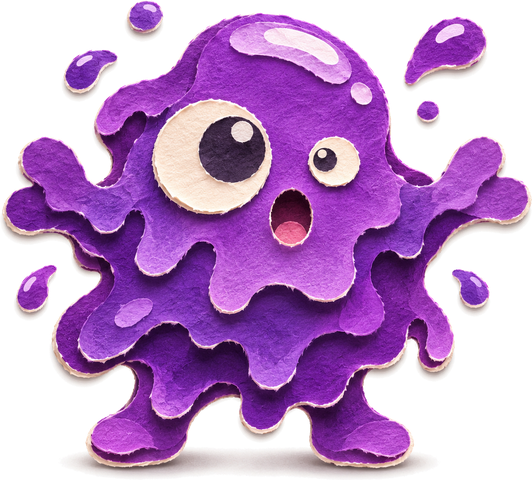
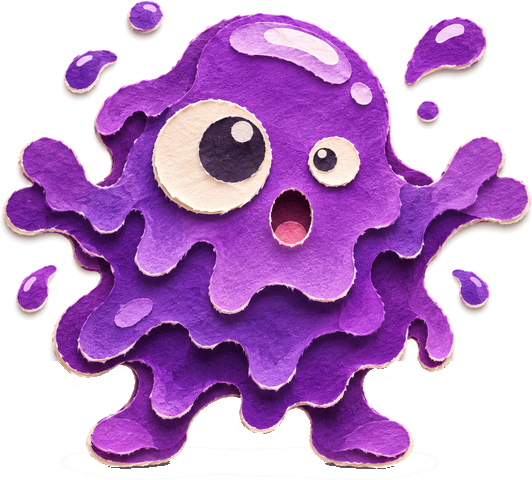
Storm halfway cap with eyes in view, soft runner shadow, clean pose floors, spinning dizzy eyes, new site and App Store art
- Storm wall meets halfway: climbs over the runner's legs, eyes always on screen
- Runner shadow is a soft, lumpy pool instead of a hard oval
- Removed baked-in floor shadows under the slide pose and other character art
- Bramble's spiral eyes spin when the storm wins
- Website: wide hero, Daily Storm art, holiday races section, challenge and 404 art, new social card
- App Store: header, search and universal images at Apple's sizes; screenshot frames use the painted backgrounds

Claude-Session: https://claude.ai/code/session_014vwR7NM2aDFqWmg6Pa4hGJ

diff --git a/docs/index.html b/docs/index.html
@@ -31,6 +31,7 @@
 
   <section class="hero">
     <div class="wrap">
+      <img class="hero-banner" src="assets/hero-wide.webp" alt="Bramble, a leafy green monster, runs with a golden needle as gold stitches close a tear between a gray storm and a bright meadow">
       <div>
         <h1>Outrun the storm. Stitch the world.</h1>
         <p class="lede">The Shredder is tearing the Paper World to confetti and draining every color. Grab a golden needle, run with a crew of cut-paper monsters, and sew each page back to life before the storm catches you.</p>
@@ -41,7 +42,7 @@
           <a class="btn gold" href="#daily">See the Daily Storm</a>
         </div>
       </div>
-      <div class="phone"><img src="assets/title-card.webp" alt="Storm Stitch title screen: Bramble, a leafy green monster, holds a golden needle in front of a gray storm with glowing eyes"></div>
+      <div class="phone"><img src="assets/title-card.webp" alt="Storm Stitch title screen: Bramble holds a golden needle in front of a gray storm with glowing eyes"></div>
     </div>
   </section>
 
@@ -125,11 +126,26 @@
         <p>Every day brings the same storm for every player, with a twist: Fog Day, Mirror Day, Spool Rain, Night Run and more. Your first run is your score. Share it, then dare a friend to beat it with a challenge link.</p>
       </div>
       <div class="paper">
+        <img class="section-art" src="assets/daily-storm.webp" alt="A torn calendar page with a grumpy storm cloud on top and monsters lined up at a start line" loading="lazy">
         <div class="share-sample">Storm Stitch Daily #4 🌫 Fog Day
 ⭐⭐▫  🧵 112  📏 1,486 m
 Score: 2,606
 Can you outrun the storm?</div>
-        <p style="margin:14px 0 0">Holiday events bring limited-time races: outrun Gobbler the turkey in late November and Comet the reindeer in December.</p>
+      </div>
+    </div>
+  </section>
+
+  <section class="block" id="holidays">
+    <div class="wrap">
+      <div class="center">
+        <div class="kicker">Holiday races</div>
+        <h2>Race a turkey. Then a reindeer.</h2>
+        <p>Limited-time events with their own roads, hazards and a rival to beat. Win and they join your crew for good.</p>
+      </div>
+      <img class="wide-art" src="assets/holidays.webp" alt="Bramble races a turkey down an autumn road and a reindeer down a snowy one, split by a golden seam" loading="lazy">
+      <div class="features two-up">
+        <div class="paper feature"><h3>Turkey Trot</h3><p>November 20 to December 1. Outrun Gobbler past paper pumpkins and hay bales.</p></div>
+        <div class="paper feature"><h3>Reindeer Race</h3><p>December 2 to January 4. Beat Comet through the snow, dodging presents and snowmen.</p></div>
       </div>
     </div>
   </section>

diff --git a/StormStitch/RunScene.swift b/StormStitch/RunScene.swift
@@ -2101,7 +2101,12 @@ final class RunScene: SKScene {
             let feet = screenPoint(ofWorld: playerShadow.position).y
             let body = playerNode.calculateAccumulatedFrame().height
             let cap = feet + body * 0.3
-            visible = min(visible, cap + 8 - stormTopAbove)
+            let capped = cap + 8 - stormTopAbove
+            if visible > capped {
+                // Meet halfway: the wall still climbs over the runner's legs, and its eyes never sink off screen.
+                let eyesInView = h * (0.07 + closeness * 0.06)
+                visible = max(eyesInView, (visible + capped) / 2)
+            }
         }
         stormBack.position.y = visible + 18
         stormFront.position.y = visible + CGFloat(sin(clock * 3.1) * 5)
@@ -2265,6 +2270,32 @@ final class RunScene: SKScene {
         brambleSprite.xScale = 1
         brambleSprite.texture = entry.texture
         brambleSprite.size = CGSize(width: height * entry.size.width / entry.size.height, height: height)
+        brambleSprite.childNode(withName: "dizzyEyes")?.removeFromParent()
+        if name == "bramble-lose" { addDizzyEyes(imageSize: entry.size) }
+    }
+
+    /// Bramble's spiral eyes spin while he sits dazed after the storm wins.
+    func addDizzyEyes(imageSize: CGSize) {
+        // Eye centers and size in the bramble-lose painting (pixels, y from the top).
+        let eyes: [(name: String, x: CGFloat, y: CGFloat, spin: CGFloat)] = [
+            ("bramble-dizzy-eye-l", 170.7, 312.3, -1), ("bramble-dizzy-eye-r", 262.0, 313.8, 1)
+        ]
+        let diameter: CGFloat = 62
+        let group = SKNode()
+        group.name = "dizzyEyes"
+        group.zPosition = 0.1
+        let w = brambleSprite.size.width, h = brambleSprite.size.height
+        let anchor = brambleSprite.anchorPoint
+        for eye in eyes {
+            guard let image = artImage(eye.name) else { return }
+            let sprite = SKSpriteNode(texture: SKTexture(image: image),
+                                      size: CGSize(width: diameter / imageSize.width * w, height: diameter / imageSize.height * h))
+            sprite.position = CGPoint(x: (eye.x / imageSize.width - anchor.x) * w,
+                                      y: ((imageSize.height - eye.y) / imageSize.height - anchor.y) * h)
+            sprite.run(.repeatForever(.rotate(byAngle: eye.spin * 2 * .pi, duration: 1.1)))
+            group.addChild(sprite)
+        }
+        brambleSprite.addChild(group)
     }
 
     // MARK: Pause

diff --git a/docs/assets/site.css b/docs/assets/site.css
@@ -87,6 +87,11 @@ p { margin: 0 0 1em; }
 .hero h1 { color: #fff; text-shadow: 2px 2px 0 var(--ink), -2px 2px 0 var(--ink), 2px -2px 0 var(--ink), -2px -2px 0 var(--ink), 0 6px 0 var(--ink); }
 .hero .lede { font-size: 20px; color: var(--ink); background: var(--paper); padding: 18px 22px; border-radius: 18px; box-shadow: 0 5px 0 var(--paper-edge); }
 .hero .ctas { display: flex; flex-wrap: wrap; gap: 14px; margin-top: 22px; }
+/* New art */
+.hero-banner { grid-column: 1 / -1; width: 100%; aspect-ratio: 21 / 9; object-fit: cover; border-radius: var(--radius); box-shadow: 0 18px 40px rgba(43,35,64,0.25); margin-bottom: 8px; }
+.section-art { width: 100%; border-radius: 14px; margin-bottom: 14px; }
+.wide-art { width: 100%; border-radius: var(--radius); box-shadow: 0 18px 40px rgba(43,35,64,0.2); margin-top: 22px; }
+.features.two-up { grid-template-columns: 1fr 1fr; }
 .phone {
   justify-self: center; width: min(340px, 80vw); aspect-ratio: 1170 / 2078; border-radius: 42px; overflow: hidden;
   border: 10px solid var(--ink); box-shadow: 0 30px 60px rgba(43,35,64,0.35); transform: rotate(2deg); background: var(--paper);
@@ -152,7 +157,8 @@ footer a { color: var(--ink); }
   .hero .lede { font-size: 17px; }
   .top nav a { font-size: 14px; }
   .brand { font-size: 19px; }
-  .features { grid-template-columns: 1fr; }
+  .features, .features.two-up { grid-template-columns: 1fr; }
+  .phone { display: none; }
   .cast { grid-template-columns: repeat(2, 1fr); }
   .top nav { gap: 12px; }
   .top nav a.hide-sm { display: none; }

diff --git a/StormStitch/PaperArt.swift b/StormStitch/PaperArt.swift
@@ -484,10 +484,18 @@ final class PaperArt {
     }
 
     var shadow: Art {
-        art("fx.shadow", size: CGSize(width: 100, height: 32)) { ctx in
-            ctx.setFillColor(UIColor(white: 0, alpha: 0.24).cgColor)
-            ctx.addPath(PaperArt.ellipse(50, 16, 44, 12))
-            ctx.fillPath()
+        // A soft, slightly lumpy pool: a body blob plus two foot blobs, all feathered to nothing at the edge.
+        art("fx.shadow.soft", size: CGSize(width: 100, height: 32)) { ctx in
+            let colors = [UIColor(hex: 0x1E1830, alpha: 0.34).cgColor, UIColor(hex: 0x1E1830, alpha: 0.18).cgColor,
+                          UIColor(hex: 0x1E1830, alpha: 0).cgColor] as CFArray
+            guard let gradient = CGGradient(colorsSpace: CGColorSpaceCreateDeviceRGB(), colors: colors,
+                                            locations: [0, 0.5, 1]) else { return }
+            ctx.scaleBy(x: 1, y: 0.34)
+            for (x, y, r) in [(50.0, 47.0, 46.0), (33.0, 50.0, 22.0), (67.0, 44.0, 22.0)] {
+                let center = CGPoint(x: x, y: y)
+                ctx.drawRadialGradient(gradient, startCenter: center, startRadius: 0,
+                                       endCenter: center, endRadius: CGFloat(r), options: [])
+            }
         }
     }
 

diff --git a/docs/c/index.html b/docs/c/index.html
@@ -28,7 +28,7 @@
   <main class="doc">
     <div class="wrap">
       <article class="paper stitched center" style="max-width:560px;margin:0 auto">
-        <img src="../assets/icon.png" alt="Storm Stitch app icon" style="width:120px;border-radius:27px;margin:6px auto 18px;box-shadow:0 14px 30px rgba(43,35,64,0.3)">
+        <img src="../assets/challenge.webp" alt="Bramble points at you, ready for a race" style="width:min(260px,70%);margin:0 auto 10px;border-radius:18px">
         <h1 id="headline">You've been challenged!</h1>
         <p id="detail">A friend ran a Daily Storm and sent you their score.</p>
         <p><a class="btn" id="open" href="#">Open in Storm Stitch</a></p>

diff --git a/docs/404.html b/docs/404.html
@@ -27,6 +27,7 @@
   <main class="doc">
     <div class="wrap">
       <article class="paper center" style="max-width:560px;margin:0 auto">
+        <img src="/assets/torn-page.webp" alt="Bramble peeks through a torn page, holding a needle and thread" style="width:min(300px,80%);margin:0 auto 10px;border-radius:18px">
         <h1>Torn page!</h1>
         <p>The storm shredded this one. Head back home and we'll stitch you up.</p>
         <p><a class="btn" href="/">Back home</a></p>

diff --git a/tools/appstore/make_art.py b/tools/appstore/make_art.py
@@ -147,12 +147,16 @@ def promo_banner(size, name):
 def caption_frame(shot, title, sub, size=(1320, 2868), index=0):
     """A store screenshot: caption on a paper strip, the real screen in a rounded frame below."""
     w, h = size
-    bg_colors = [SKY, (108, 198, 111), (178, 132, 230), STORM, (74, 69, 96), (244, 184, 28)]
-    base = Image.new("RGBA", size, bg_colors[index % len(bg_colors)] + (255,))
+    backgrounds = ["sky-blue", "leaf-green", "stormy-purple"]
+    bg_path = os.path.join(ROOT, "tools", "appstore", "source",
+                           f"A4-screenshot-background-{backgrounds[index % len(backgrounds)]}.png")
+    if os.path.exists(bg_path):
+        base = cover(Image.open(bg_path).convert("RGBA"), size)
+    else:
+        bg_colors = [SKY, (108, 198, 111), STORM]
+        base = Image.new("RGBA", size, bg_colors[index % len(bg_colors)] + (255,))
     # Soft paper clouds.
     d = ImageDraw.Draw(base)
-    for cx, cy, r in ((0.1, 0.035, 0.16), (0.92, 0.05, 0.18)):
-        d.ellipse([w * (cx - r), h * cy - w * r * 0.45, w * (cx + r), h * cy + w * r * 0.45], fill=(255, 255, 255, 50))
     title_font = font("Fredoka-Bold.ttf", 118)
     sub_font = font("NunitoSans-ExtraBold.ttf", 46)
     outlined_text(d, (w // 2, 230), title, title_font, (255, 255, 255), anchor="mm", stroke=10)
